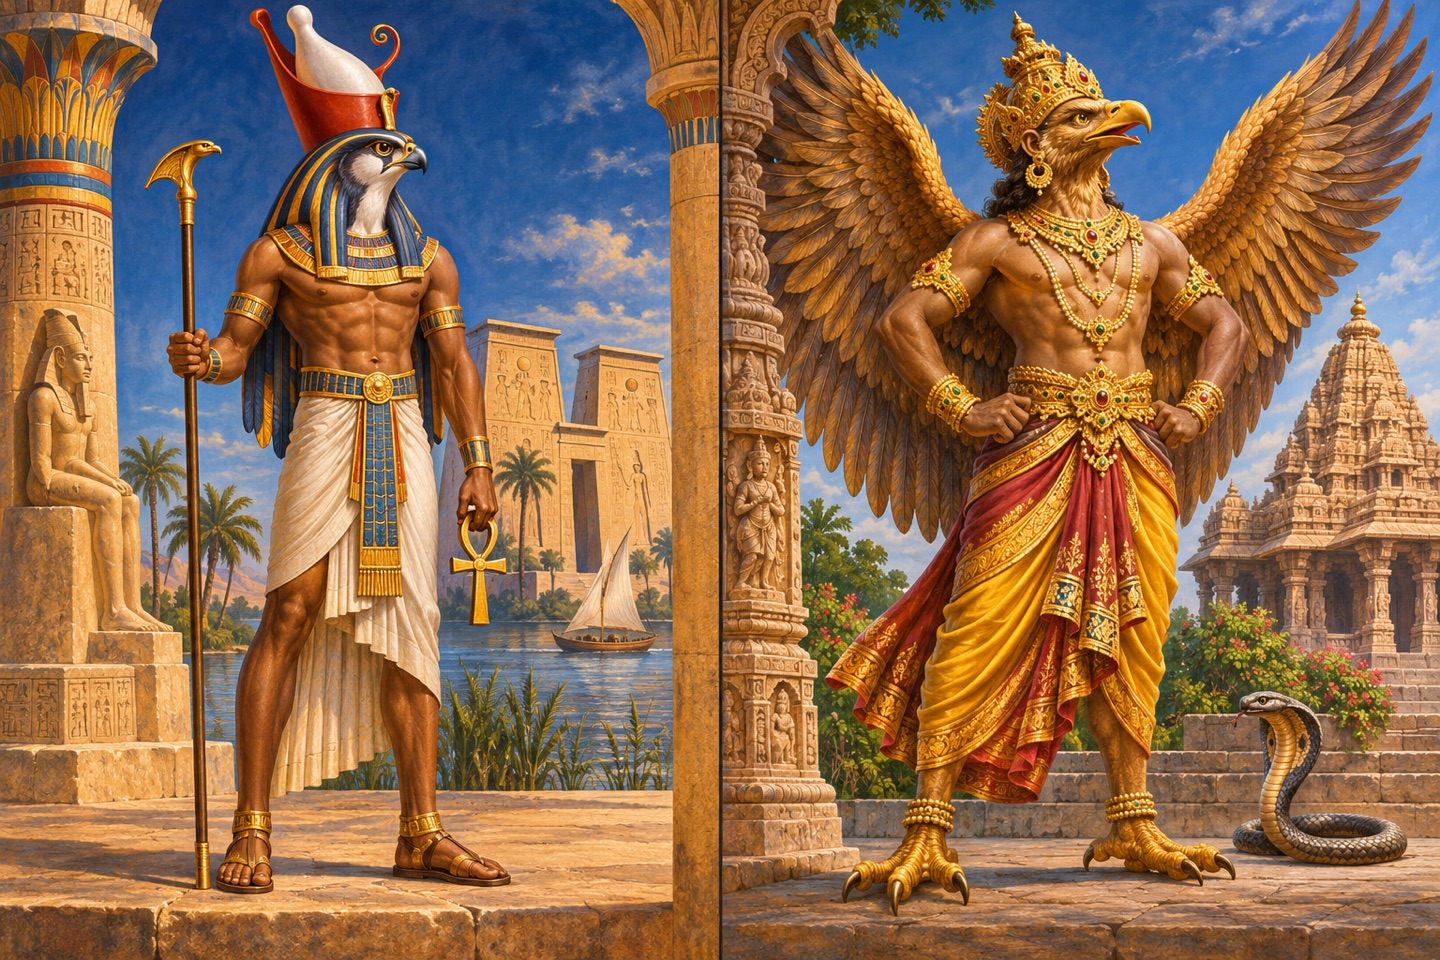
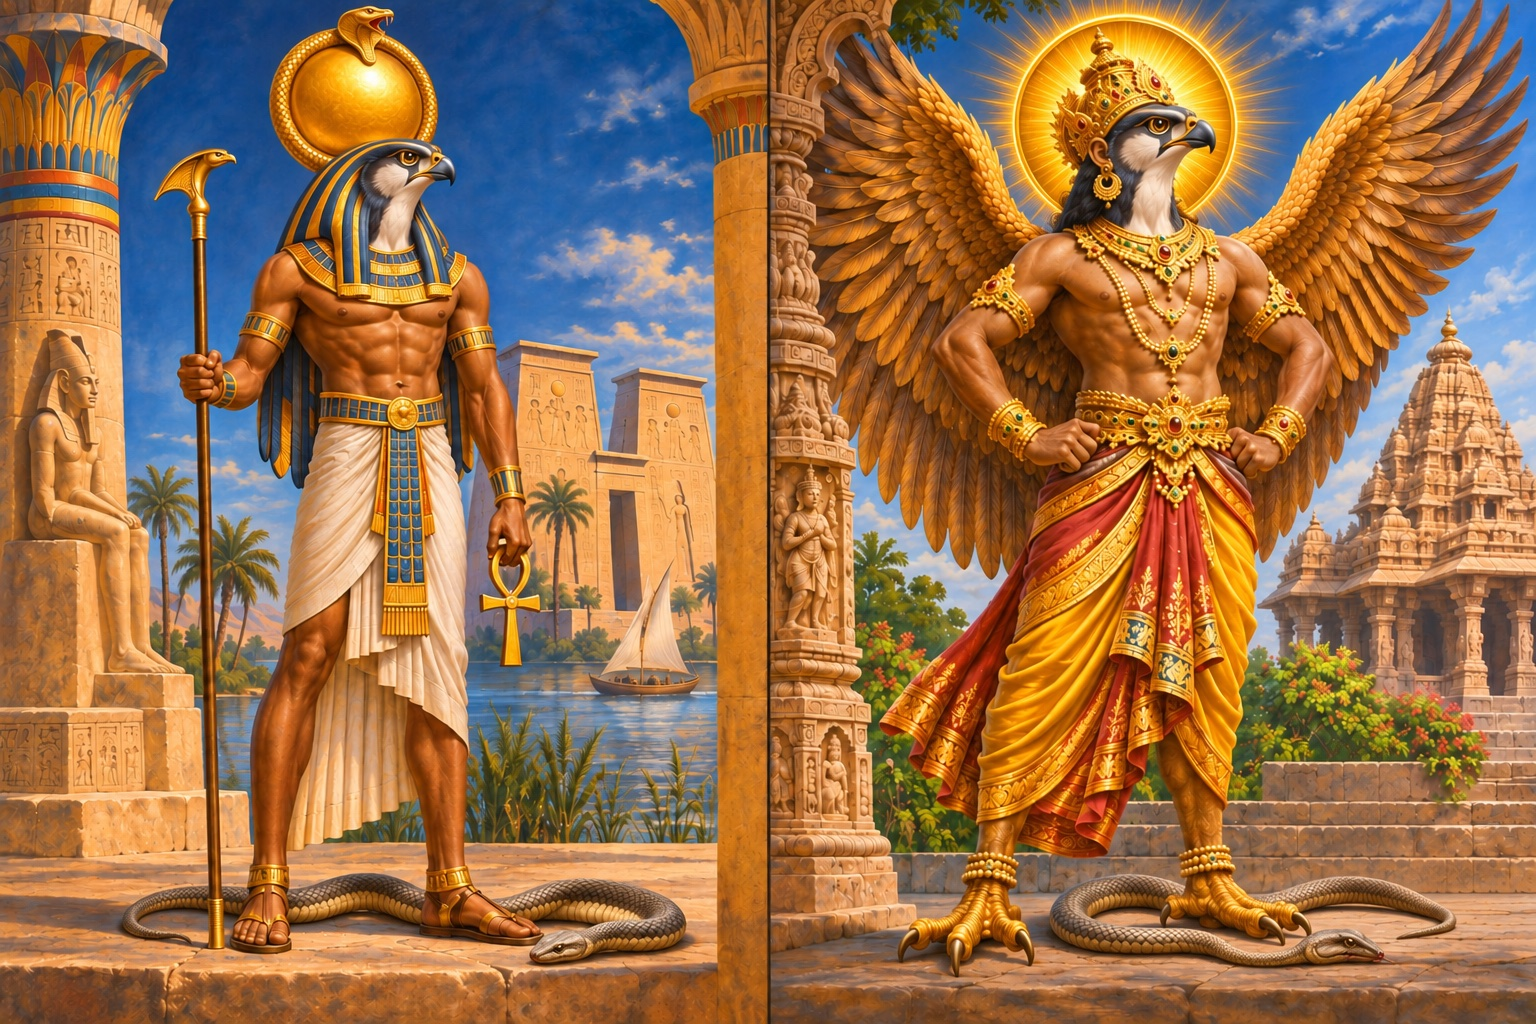
Actualiza comparaciones de dioses egipcios e hindúes e ilustraciones

diff --git a/secciones/dioses-hindues.html b/secciones/dioses-hindues.html
@@ -1,9 +1,11 @@
+<article class="prayers-panel" aria-labelledby="horus-garuda-title">
   <h2 id="horus-garuda-title">Horus y Garuda</h2>
   <figure class="prayers-illustration">
-    <img src="assets/dioses-hindues/horus-garuda.jpg" alt="Horus a la izquierda, con cabeza de halcón y corona egipcia; Garuda a la derecha, con pico de águila y alas desplegadas" loading="lazy" decoding="async" width="1440" height="960">
+    <img src="assets/dioses-hindues/horus-garuda.jpg" alt="Horus en su forma solar a la izquierda y Garuda alado a la derecha, con cabezas de ave del mismo color y serpientes muertas a sus pies" loading="lazy" decoding="async" width="1536" height="1024">
+    <figcaption>Ilustración moderna de comparación iconográfica.</figcaption>
   </figure>
   <div class="joseph-parallel-grid">
-    <section class="joseph-parallel-card"><h3>Horus · Egipto</h3><p>Se representa como halcón o como un hombre con cabeza de halcón. Se vincula con el cielo, la realeza y la protección del faraón. La doble corona expresa su relación con la soberanía sobre Egipto.</p></section>
+    <section class="joseph-parallel-card"><h3>Horus · Egipto</h3><p>Se representa como halcón o como un hombre con cabeza de halcón. Se vincula con el cielo, la realeza y la protección del faraón. La ilustración utiliza su forma solar sincrética Ra-Horajti, con disco solar y uraeus. El color compartido de las cabezas y las serpientes a los pies son decisiones de esta composición moderna.</p></section>
     <section class="joseph-parallel-card"><h3>Garuda · tradición hindú</h3><p>Ave divina, descrita como águila o como un ser que combina cuerpo humano, pico y alas. Es la montura de Vishnu y se relaciona con el enfrentamiento a las serpientes o nagas.</p></section>
   </div>
   <p><strong>Paralelismo:</strong> la combinación de rasgos humanos y de ave, el vuelo y la protección. <strong>Diferencia:</strong> Horus es un dios de la realeza egipcia; Garuda tiene su propia historia y actúa como montura de Vishnu. Halcón y águila tampoco son el mismo animal.</p>
@@ -13,20 +15,22 @@
 <article class="prayers-panel" aria-labelledby="amon-vishnu-title">
   <h2 id="amon-vishnu-title">Amón y Vishnu</h2>
   <figure class="prayers-illustration">
-    <img src="assets/dioses-hindues/amon-vishnu.jpg" alt="Amón a la izquierda, con piel azul, dos plumas altas y un carnero; Vishnu a la derecha, con cuatro brazos y la serpiente Shesha" loading="lazy" decoding="async" width="1440" height="960">
+    <img src="assets/dioses-hindues/amon-vishnu.jpg" alt="Amón-Ra con disco solar, dos plumas y serpiente; Vishnú con aureola sobre Shesha; piel azul y flores de loto en ambos lados" loading="lazy" decoding="async" width="1536" height="1024">
+    <figcaption>Ilustración moderna de comparación iconográfica.</figcaption>
   </figure>
   <div class="joseph-parallel-grid">
-    <section class="joseph-parallel-card"><h3>Amón · Egipto</h3><p>Puede representarse como un hombre de piel azul con dos altas plumas. El carnero y el ganso son animales sagrados asociados con él; también existen imágenes con cabeza de carnero.</p></section>
+    <section class="joseph-parallel-card"><h3>Amón · Egipto</h3><p>Puede representarse como un hombre de piel azul con dos altas plumas. Aquí aparece como Amón-Ra, con disco solar; la serpiente evoca su aspecto primordial Kematef. El carnero y el ganso son animales sagrados asociados con él; también existen imágenes con cabeza de carnero.</p></section>
     <section class="joseph-parallel-card"><h3>Vishnu · tradición hindú</h3><p>Se representa frecuentemente con piel azul y cuatro brazos, portando disco, caracola, maza y loto. Garuda es su montura; la serpiente cósmica Shesha le sirve de lecho en otras representaciones.</p></section>
   </div>
-  <p><strong>Paralelismo:</strong> el color azul en ciertas imágenes, las coronas y la presentación majestuosa. <strong>Diferencia:</strong> sus animales y objetos característicos no coinciden. El carnero de Amón no es la montura habitual de Vishnu, y las dos plumas de Amón no equivalen a los cuatro brazos de Vishnu.</p>
+  <p><strong>Paralelismo:</strong> el color azul en ciertas imágenes, las coronas y la presentación majestuosa. <strong>Diferencia:</strong> sus animales y objetos característicos no coinciden. El disco solar egipcio y la aureola de Vishnú son atributos distintos; las serpientes tampoco tienen la misma función en sus tradiciones.</p>
   <p><a href="https://www.globalegyptianmuseum.org/glossary.aspx?id=62">Global Egyptian Museum · Amón, su color y sus animales</a> · <a href="https://www.metmuseum.org/art/collection/search/849523">The Met · Vishnu, sus cuatro atributos y Shesha</a> · <a href="https://collection.sciencemuseumgroup.org.uk/objects/co122577/hindu-statue-of-god-vishnu-on-man-bird-garuda">Science Museum · Vishnu sobre Garuda</a>.</p>
 </article>
 
 <article class="prayers-panel" aria-labelledby="ptah-brahma-title">
   <h2 id="ptah-brahma-title">Ptah y Brahma</h2>
   <figure class="prayers-illustration">
-    <img src="assets/dioses-hindues/ptah-brahma.jpg" alt="Ptah a la izquierda, con vestimenta ceñida, cetro y el toro Apis; Brahma a la derecha, con varios rostros, cuatro brazos y el ave hamsa" loading="lazy" decoding="async" width="1440" height="960">
+    <img src="assets/dioses-hindues/ptah-brahma.jpg" alt="Ptah a la izquierda, con vestimenta ceñida, cetro y el toro Apis; Brahma a la derecha, con varios rostros, cuatro brazos y el ave hamsa" loading="lazy" decoding="async" width="1536" height="1024">
+    <figcaption>Ilustración moderna de comparación iconográfica.</figcaption>
   </figure>
   <div class="joseph-parallel-grid">
     <section class="joseph-parallel-card"><h3>Ptah · Egipto</h3><p>Dios creador de Menfis y protector de los artesanos. Su imagen habitual tiene cabeza humana, un casquete y una vestimenta ceñida de aspecto momiforme. El toro Apis se consideraba una manifestación viviente suya.</p></section>
@@ -34,6 +38,34 @@
   </div>
   <p><strong>Paralelismo:</strong> su función creadora y el uso de objetos simbólicos. <strong>Diferencia:</strong> el toro Apis corresponde a Ptah, mientras que Brahma se vincula con hamsa. El cetro egipcio de Ptah no es el tridente de Shiva.</p>
   <p><a href="https://egyptianmuseum.org/deities-ptah">Egyptian Museum · Ptah</a> · <a href="https://art.thewalters.org/object/54.2127/">Walters Art Museum · Apis como manifestación de Ptah</a> · <a href="https://searcharchives.bl.uk/catalog/041-003881958">British Library · Brahma y hamsa</a>.</p>
+</article>
+
+<article class="prayers-panel" aria-labelledby="atum-shiva-title">
+  <h2 id="atum-shiva-title">Atum y Shiva</h2>
+  <figure class="prayers-illustration">
+    <img src="assets/dioses-hindues/atum-shiva.jpg" alt="Atum con cobra en la corona y Shiva con cobra en el cuello, tridente y cuentas sagradas; un toro blanco junto a cada uno" loading="lazy" decoding="async" width="1536" height="1024">
+    <figcaption>Ilustración moderna: ambos toros se muestran blancos por elección visual.</figcaption>
+  </figure>
+  <div class="joseph-parallel-grid">
+    <section class="joseph-parallel-card"><h3>Atum · Egipto</h3><p>Dios creador de Heliópolis. La cobra de su corona expresa protección y autoridad; también existen representaciones serpentinas de Atum. El toro de esta composición acompaña la comparación visual y no se presenta como su montura.</p></section>
+    <section class="joseph-parallel-card"><h3>Shiva · tradición hindú</h3><p>La cobra del cuello, el tridente y las cuentas rudraksha destacan sus atributos. Lo acompaña Nandi, el toro asociado con su culto y su montura.</p></section>
+  </div>
+  <p><strong>Paralelismo:</strong> serpientes y bóvidos en el imaginario religioso. Sus funciones y relatos pertenecen a tradiciones diferentes.</p>
+  <p><a href="https://www.globalegyptianmuseum.org/record.aspx?id=2358">Global Egyptian Museum · representación serpentina atribuida a Atum</a> · <a href="https://www.museum.go.kr/ENG/contents/E0201090300.do?relicId=16203&amp;schM=view&amp;showHallId=756">Museo Nacional de Corea · Shiva y Nandi</a>.</p>
+</article>
+
+<article class="prayers-panel" aria-labelledby="serapis-yama-title">
+  <h2 id="serapis-yama-title">Serapis y Yama</h2>
+  <figure class="prayers-illustration">
+    <img src="assets/dioses-hindues/serapis-yama.jpg" alt="Serapis con Cerbero y Yama sobre un búfalo negro; ambos llevan el mismo tocado cilíndrico dorado en esta reinterpretación" loading="lazy" decoding="async" width="1536" height="1024">
+    <figcaption>Reinterpretación artística: ambos llevan el modius de Serapis por elección visual. No reproduce el tocado tradicional de Yama.</figcaption>
+  </figure>
+  <div class="joseph-parallel-grid">
+    <section class="joseph-parallel-card"><h3>Serapis · tradición greco-egipcia</h3><p>Figura barbada con cetro y modius, tocado cilíndrico relacionado con la medida del grano. En esta escena lo acompaña Cerbero.</p></section>
+    <section class="joseph-parallel-card"><h3>Yama · tradición hindú</h3><p>Señor de los muertos y de la justicia, representado aquí sobre un búfalo, con bastón y lazo. Su corona habitual se ha sustituido en esta ilustración para resaltar la comparación.</p></section>
+  </div>
+  <p><strong>Paralelismo:</strong> autoridad y relación con el mundo de los muertos. La corona idéntica es una decisión artística, no un atributo histórico compartido.</p>
+  <p><a href="https://www.getty.edu/publications/ancient-glass/catalogue/cat-574/">Getty · Serapis y el modius</a>.</p>
 </article>
 
 <article class="prayers-panel">

diff --git a/sw.js b/sw.js
@@ -1,4 +1,4 @@
-const CACHE = 'biblia-universal-v90';
+const CACHE = 'biblia-universal-v91';
 const APP_SHELL = [
   './',
   './index.html',
@@ -43,6 +43,7 @@ self.addEventListener('fetch', event => {
     url.pathname.includes('/assets/celestiales/') ||
     url.pathname.includes('/assets/manifestaciones/') ||
     url.pathname.includes('/assets/paralelismos/') ||
+    url.pathname.includes('/assets/dioses-hindues/') ||
     url.pathname.includes('/assets/objetos-seres/') ||
     url.pathname.includes('/assets/timeline/') ||
     url.pathname.endsWith('/scripts/section-page.mjs') ||
